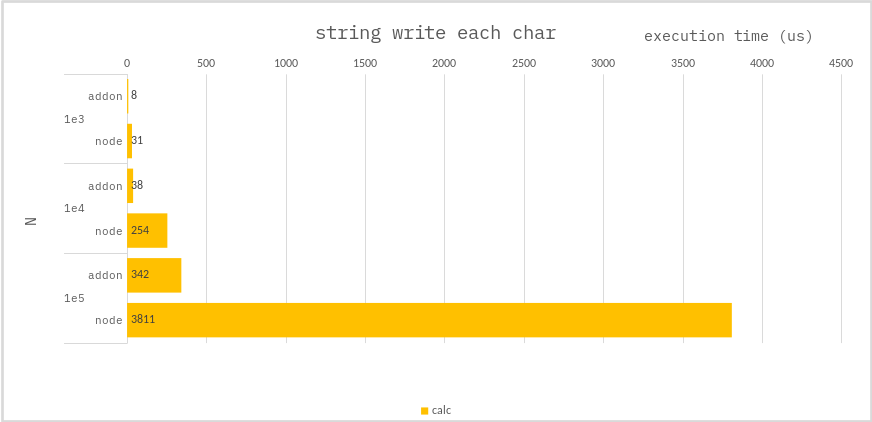
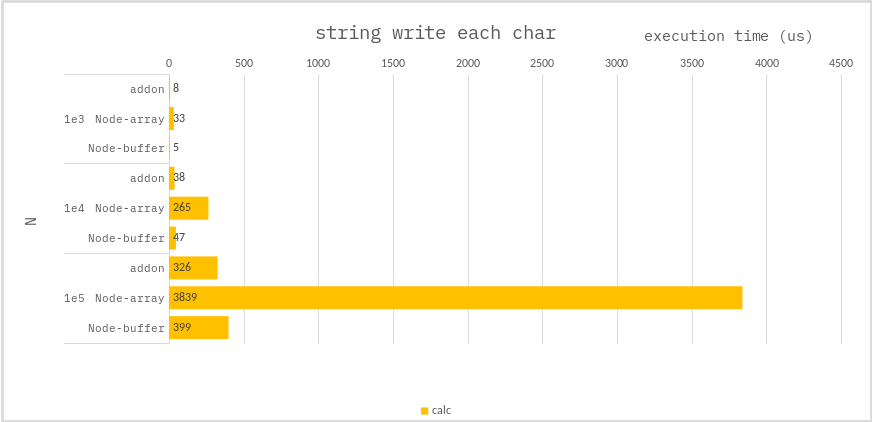
update: add test-case using buffer

diff --git a/benchmark/5-2.string-write-each-char/src/index.ts b/benchmark/5-2.string-write-each-char/src/index.ts
@@ -9,7 +9,7 @@ const targets: BenchmarkTargetGroup = [
         name: "napi/string-write"
     },
     {
-        func: function({ str }) {
+        func: function ({ str }) {
             const arr: string[] = [];
             const len = str.length;
             for (let i = 0; i < len; i++) {
@@ -22,6 +22,21 @@ const targets: BenchmarkTargetGroup = [
             };
         },
         name: "node/string-write"
+    },
+    {
+        func: function ({ str }) {
+            const buf = Buffer.from(str);
+            const zero = "0".charCodeAt(0);
+            const one = "1".charCodeAt(0);
+            for (let i = 0; i < buf.length; i++) {
+                buf[i] = buf[i] == zero ? one : zero;
+            }
+            return {
+                ans: buf.toString(),
+                statics: {}
+            };
+        },
+        name: "node/buffer-write"
     }
 ];
 

diff --git a/benchmark/5-2.string-write-each-char/readme.md b/benchmark/5-2.string-write-each-char/readme.md
@@ -32,6 +32,16 @@ for (let i = 0; i < len; i++) {
 str = arr.join();
 ```
 
+```ts
+const buf = Buffer.from(str);
+const ch0 = "0".charCodeAt(0);
+const ch1 = "1".charCodeAt(0);
+for(let i=0; i<buf.length; i++){
+    buf[i] = (buf[i] === ch0) ? ch1 : ch0;
+}
+buf.toString();
+```
+
 ### Benchmark
 
 > Measure the average of 10,000 times.
@@ -42,4 +52,4 @@ str = arr.join();
 
 ### Conclusion
 
-Because of the V8 engine string feature, `NODE` are **_not suitable_** for modifying strings.
+If you need to perform each character-wise operation, it is better to convert it to `Buffer` before proceeding.
